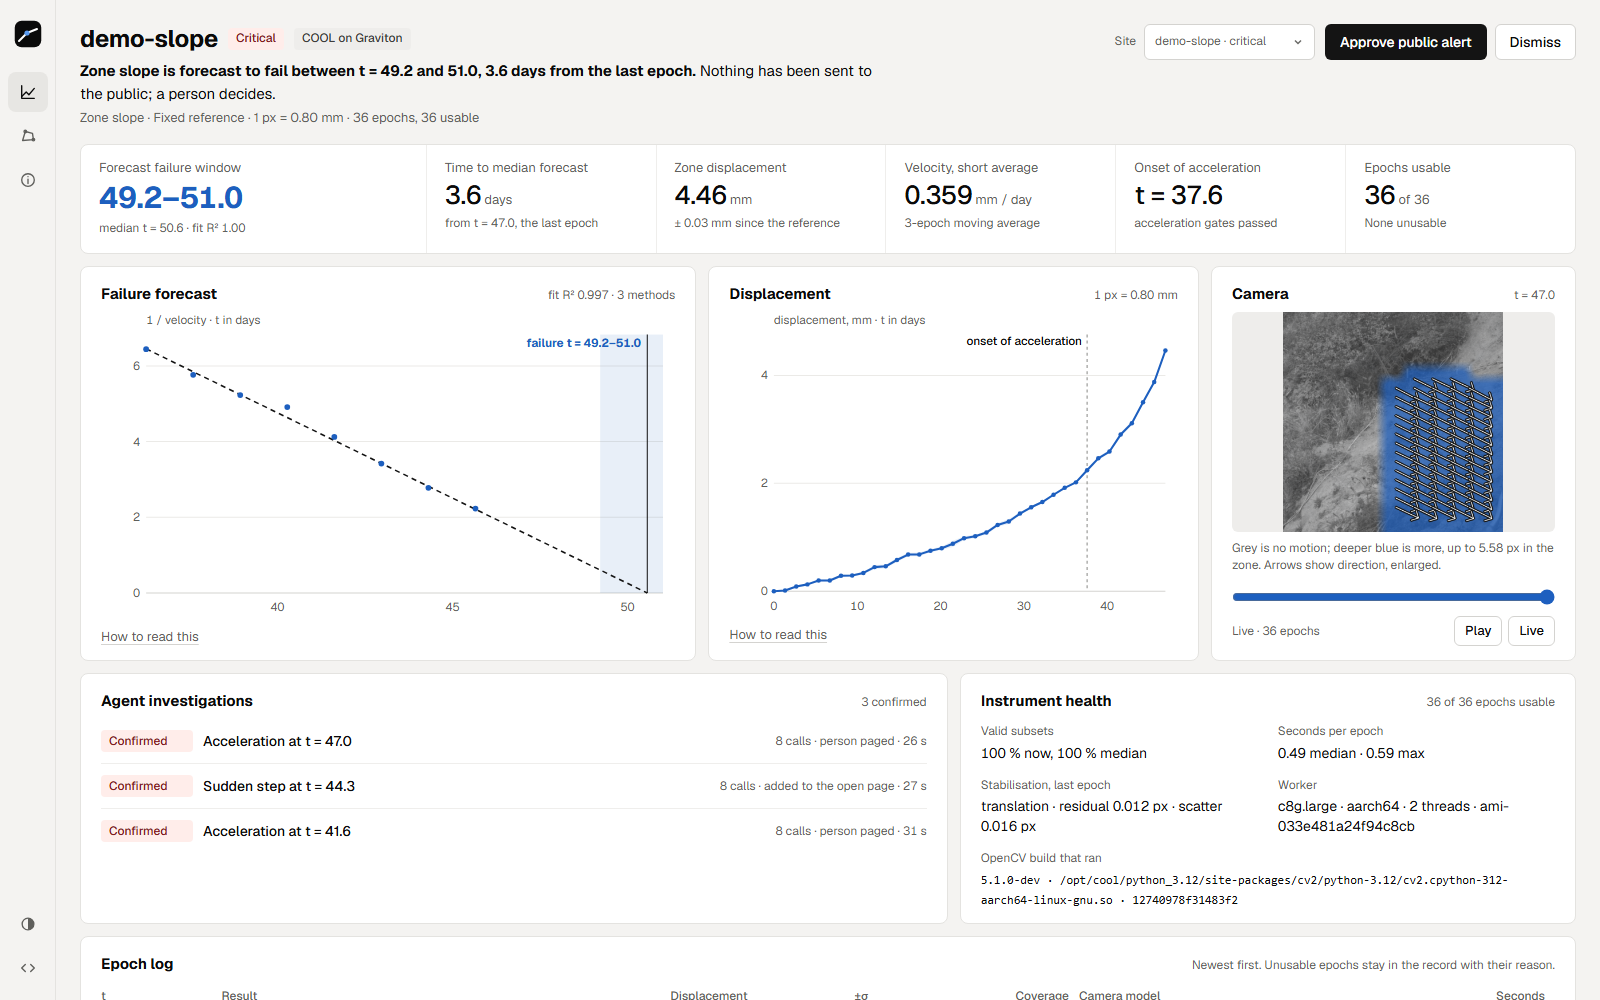
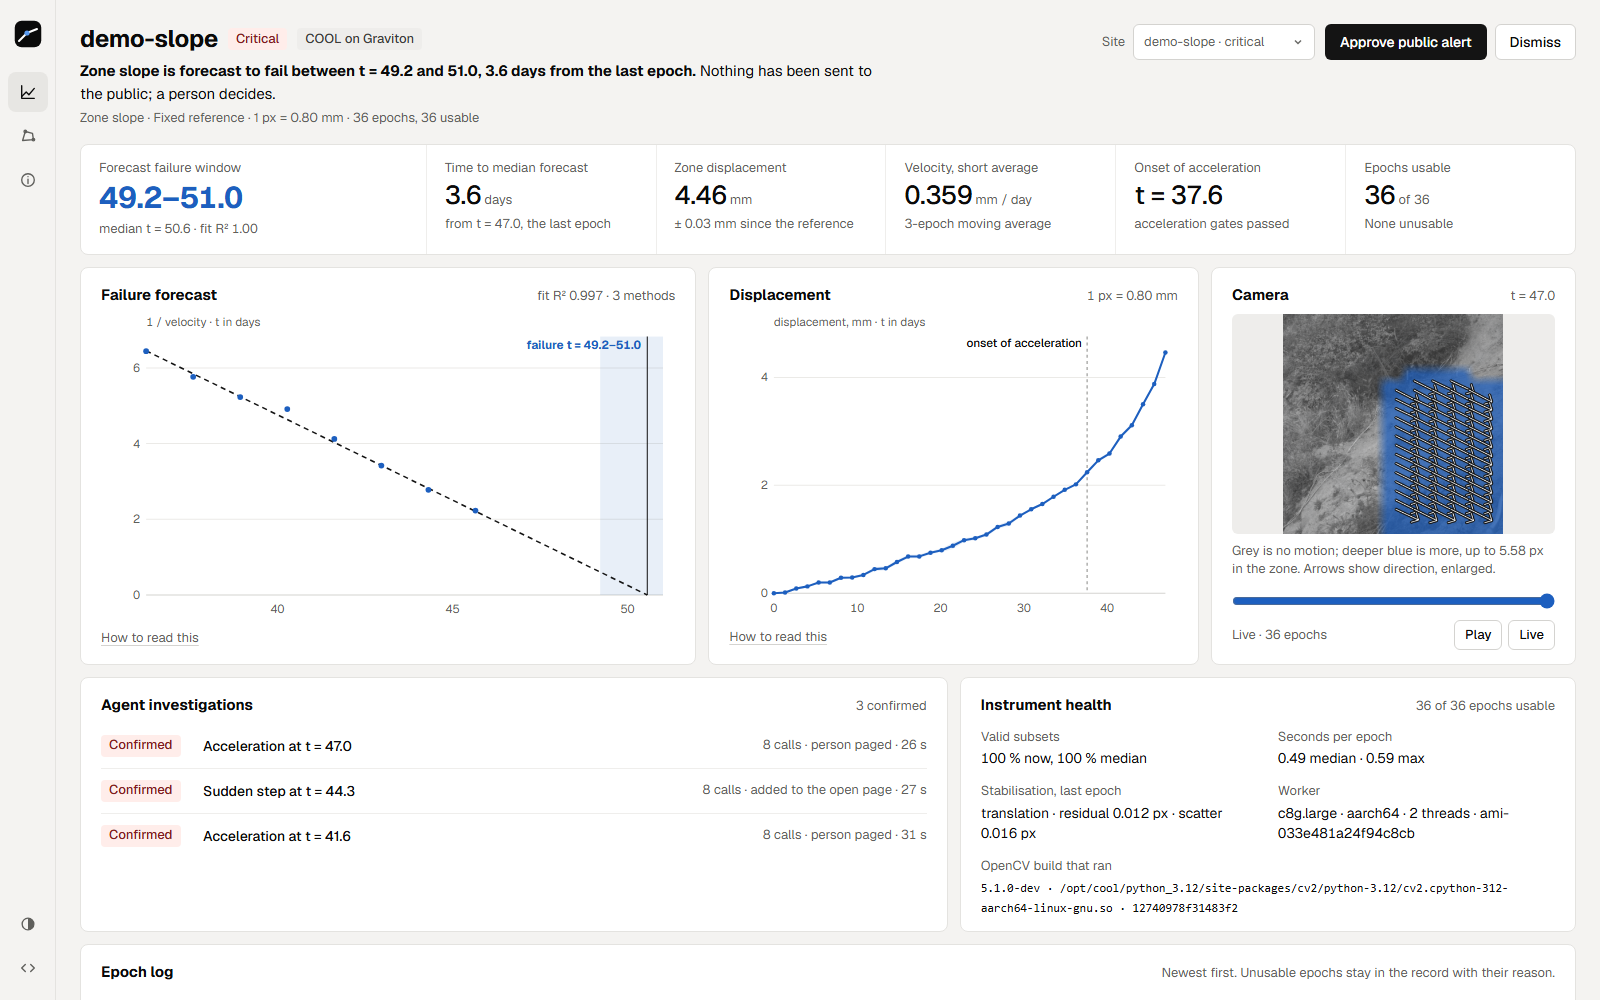
UI pass on the new surfaces: evidence pair, phone layout, readable floor
- Labels and data at 13 px minimum (was 12); trace code 12 px. The small-text warning on an
  open investigation is gone.
- The agent's two re-measurements always sit side by side (up to 260 px each on desktop,
  half-width each on a phone) instead of stacking full-width on phones.
- Verdict pills keep their width on phones; panel subtitles wrap under their heading.
- Phone epoch log shows t, result, displacement and coverage; diagnostic columns hide
  instead of being cut off at the edge.
- The agent's summary no longer restates the verdict that the pill beside it shows.
- Instrument health stays in view beside a long open investigation on wide screens.
- Gallery shots 01 and 03 retaken. Inspector: 0 FAIL on every state, light and dark,
  1440 / 768 / 390 px.

Commit time set to after 7 PM ET by request.

diff --git a/web/dashboard/dashboard.css b/web/dashboard/dashboard.css
@@ -30,7 +30,7 @@
 
   --radius-card: 8px; --radius-control: 6px; --radius-chip: 4px;
   --gap: 12px; --pad: 20px; --control-height: 36px;
-  --fs-title: 24px; --fs-section: 15px; --fs-kpi: 26px; --fs-kpi-lead: 30px; --fs-body: 14px; --fs-small: 12px;
+  --fs-title: 24px; --fs-section: 15px; --fs-kpi: 26px; --fs-kpi-lead: 30px; --fs-body: 14px; --fs-small: 13px;
   --ease-out: cubic-bezier(0.23, 1, 0.32, 1);
   --rail: 56px;
   /* aliases kept for the setup and about pages */
@@ -181,9 +181,11 @@ h1 { font-size: var(--fs-title); line-height: 1.25; font-weight: 600; letter-spa
 /* ---------------------------------------------------------------- panels and grid */
 .grid { display: grid; grid-template-columns: repeat(12, minmax(0, 1fr)); gap: var(--gap); align-items: stretch; }
 .panel.fit-content { align-self: start; }
+/* beside a long open investigation, the instrument's health stays in view while reading it */
+@media (min-width: 1281px) { .panel.fit-content { position: sticky; top: 16px; } }
 .span-3 { grid-column: span 3; } .span-4 { grid-column: span 4; } .span-5 { grid-column: span 5; } .span-6 { grid-column: span 6; } .span-7 { grid-column: span 7; } .span-12 { grid-column: span 12; }
 .panel { background: var(--surface); border: 1px solid var(--border); border-radius: var(--radius-card); padding: 16px var(--pad) 14px; min-width: 0; display: flex; flex-direction: column; }
-.panel-head { display: flex; justify-content: space-between; align-items: baseline; gap: 12px; margin-bottom: 8px; }
+.panel-head { display: flex; flex-wrap: wrap; justify-content: space-between; align-items: baseline; gap: 4px 12px; margin-bottom: 8px; }
 .panel h2 { font-size: var(--fs-section); line-height: 1.4; font-weight: 600; }
 .panel-meta { color: var(--muted); font-size: var(--fs-small); text-align: right; font-variant-numeric: tabular-nums; }
 .empty { color: var(--muted); font-size: 14px; padding: 12px 0; }
@@ -229,13 +231,15 @@ details.help p { max-width: 70ch; }
   min-height: 44px; padding: 6px 0; cursor: pointer; list-style: none;
 }
 .event-list details > summary::-webkit-details-marker { display: none; }
+.event-list details > summary .pill { justify-self: start; }
 .event-title { font-weight: 500; }
 .event-meta { color: var(--muted); font-size: var(--fs-small); font-variant-numeric: tabular-nums; text-align: right; white-space: nowrap; }
 .event-body { padding: 0 0 12px 102px; }
 .event-summary { font-size: 14px; line-height: 1.5; max-width: 72ch; }
 .evidence { margin: 12px 0 4px; }
 .evidence-title { font-size: 13px; color: var(--muted); margin: 0 0 8px; }
-.evidence-row { display: grid; grid-template-columns: repeat(auto-fill, minmax(180px, 1fr)); gap: 12px; }
+/* the two re-measurements are a comparison, so they always sit side by side */
+.evidence-row { display: grid; grid-template-columns: repeat(2, minmax(0, 260px)); gap: 12px; }
 .evidence figure { margin: 0; }
 .evidence img { display: block; width: 100%; aspect-ratio: 1; object-fit: cover; border-radius: 6px; background: var(--raised); }
 .evidence figcaption { margin-top: 6px; font-size: 13px; color: var(--muted); line-height: 1.4; }
@@ -261,7 +265,7 @@ details.help p { max-width: 70ch; }
 .trace { margin: 8px 0 0; padding: 0 0 0 18px; color: var(--muted); font-size: var(--fs-small); }
 .trace li { margin: 3px 0; }
 .trace b { color: var(--text); font-weight: 500; }
-.trace code { font-size: 11px; word-break: break-all; }
+.trace code { font-size: 12px; word-break: break-all; }
 @media (hover: hover) and (pointer: fine) { .event-list details > summary:hover .event-title { text-decoration: underline; text-decoration-color: var(--control); text-underline-offset: 3px; } }
 
 /* health */
@@ -347,6 +351,9 @@ body:not(.app) > footer { max-width: 1100px; margin: 0 auto; padding: 8px 24px 3
   .event-list details > summary { grid-template-columns: 1fr auto; }
   .event-list details > summary .event-meta { grid-column: 1 / -1; text-align: left; }
   .event-body { padding-left: 0; }
+  .panel-meta { text-align: left; }
+  #epochs .opt { display: none; }          /* a phone shows t, result, displacement, coverage */
+  .evidence-row { grid-template-columns: repeat(2, minmax(0, 1fr)); }
   body:not(.app) main { padding: 16px; }
   header.top { padding: 8px 16px; }
 }

diff --git a/web/dashboard/dashboard.js b/web/dashboard/dashboard.js
@@ -98,6 +98,10 @@
 
   // ------------------------------------------------------------------ run it live
   let LIVE = null, liveActive = false;
+  const cleanSummary = (s) => String(s || "").replace(/\*\*/g, "").trim()
+    .replace(/^(investigation\s+(complete|completed|closed)\s*[:.\-–]?\s*)/i, "")
+    .replace(/^(event\s+)?(confirmed|false[_ ]alarm|inconclusive)\b(\s+(as\s+)?real ground motion)?\s*[:.\-–]?\s*/i, "")
+    .replace(/^./, (c) => c.toUpperCase());
   const ago = (s) => s < 90 ? `${Math.round(s)} s` : `${Math.round(s / 60)} min`;
   function renderWaiting(site, run, series) {
     document.getElementById("main").classList.add("is-waiting");
@@ -292,10 +296,10 @@
       const disp = has ? (metric ? `${fmt(zz.magnitude * mm, 2)} mm` : `${fmt(zz.magnitude, 3)} px`) : "–";
       const sig = has ? (metric ? fmt(zz.sigma * mm, 2) : fmt(zz.sigma, 3)) : "–";
       return `<tr class="${r.usable ? "" : "unusable"}"><td>${fmt(r.t, 1)}${ctx.date ? ` <span class="hint">${ctx.date(r.t)}</span>` : ""}</td>` +
-        `<td>${pill(REASON[r.reason], r.reason)}</td><td class="num">${disp}</td><td class="num">${sig}</td>` +
+        `<td>${pill(REASON[r.reason], r.reason)}</td><td class="num">${disp}</td><td class="num opt">${sig}</td>` +
         `<td class="num">${r.field ? fmt(100 * r.field.coverage, 0) + " %" : "–"}</td>` +
-        `<td>${r.stabilize && r.stabilize.refine_model ? esc(r.stabilize.refine_model) : "–"}</td>` +
-        `<td class="num">${r.timing ? fmt(r.timing.total_s, 2) : "–"}</td></tr>`;
+        `<td class="opt">${r.stabilize && r.stabilize.refine_model ? esc(r.stabilize.refine_model) : "–"}</td>` +
+        `<td class="num opt">${r.timing ? fmt(r.timing.total_s, 2) : "–"}</td></tr>`;
     }).join("");
     const em = $("epochs-more");
     em.hidden = rows.length <= 6;
@@ -375,7 +379,7 @@
       const when = `t = ${fmt(e.t, 1)}${ctx.date ? " · " + ctx.date(e.t) : ""}`;
       det.innerHTML = `<summary>${pill(VERDICT[e.verdict], e.verdict)}<span class="event-title">${esc(EVENT[e.event] || e.event)} at ${esc(when)}</span>` +
         `<span class="event-meta">${e.n_tool_calls} calls · ${e.paged_human ? "person paged" : e.page_attached ? "added to the open page" : "no page"} · ${fmt(e.seconds, 0)} s</span></summary>` +
-        `<div class="event-body"><p class="event-summary">${esc((e.summary || "").replace(/\*\*/g, ""))}</p><div class="evidence" hidden></div><details class="calls"><summary>Every tool call, with its arguments and result</summary><ol class="trace"><li>Loading the trace…</li></ol></details></div>`;
+        `<div class="event-body"><p class="event-summary">${esc(cleanSummary(e.summary))}</p><div class="evidence" hidden></div><details class="calls"><summary>Every tool call, with its arguments and result</summary><ol class="trace"><li>Loading the trace…</li></ol></details></div>`;
       det.addEventListener("toggle", async () => {
         if (!det.open || det.dataset.loaded) return;
         det.dataset.loaded = "1";

diff --git a/web/dashboard/index.html b/web/dashboard/index.html
@@ -158,7 +158,7 @@
       <div class="table-wrap">
         <table id="epochs">
           <caption class="sr-only">Epoch log, newest first</caption>
-          <thead><tr><th scope="col">t</th><th scope="col">Result</th><th scope="col" class="num">Displacement</th><th scope="col" class="num">±σ</th><th scope="col" class="num">Coverage</th><th scope="col">Camera model</th><th scope="col" class="num">Seconds</th></tr></thead>
+          <thead><tr><th scope="col">t</th><th scope="col">Result</th><th scope="col" class="num">Displacement</th><th scope="col" class="num opt">±σ</th><th scope="col" class="num">Coverage</th><th scope="col" class="opt">Camera model</th><th scope="col" class="num opt">Seconds</th></tr></thead>
           <tbody></tbody>
         </table>
       </div>
